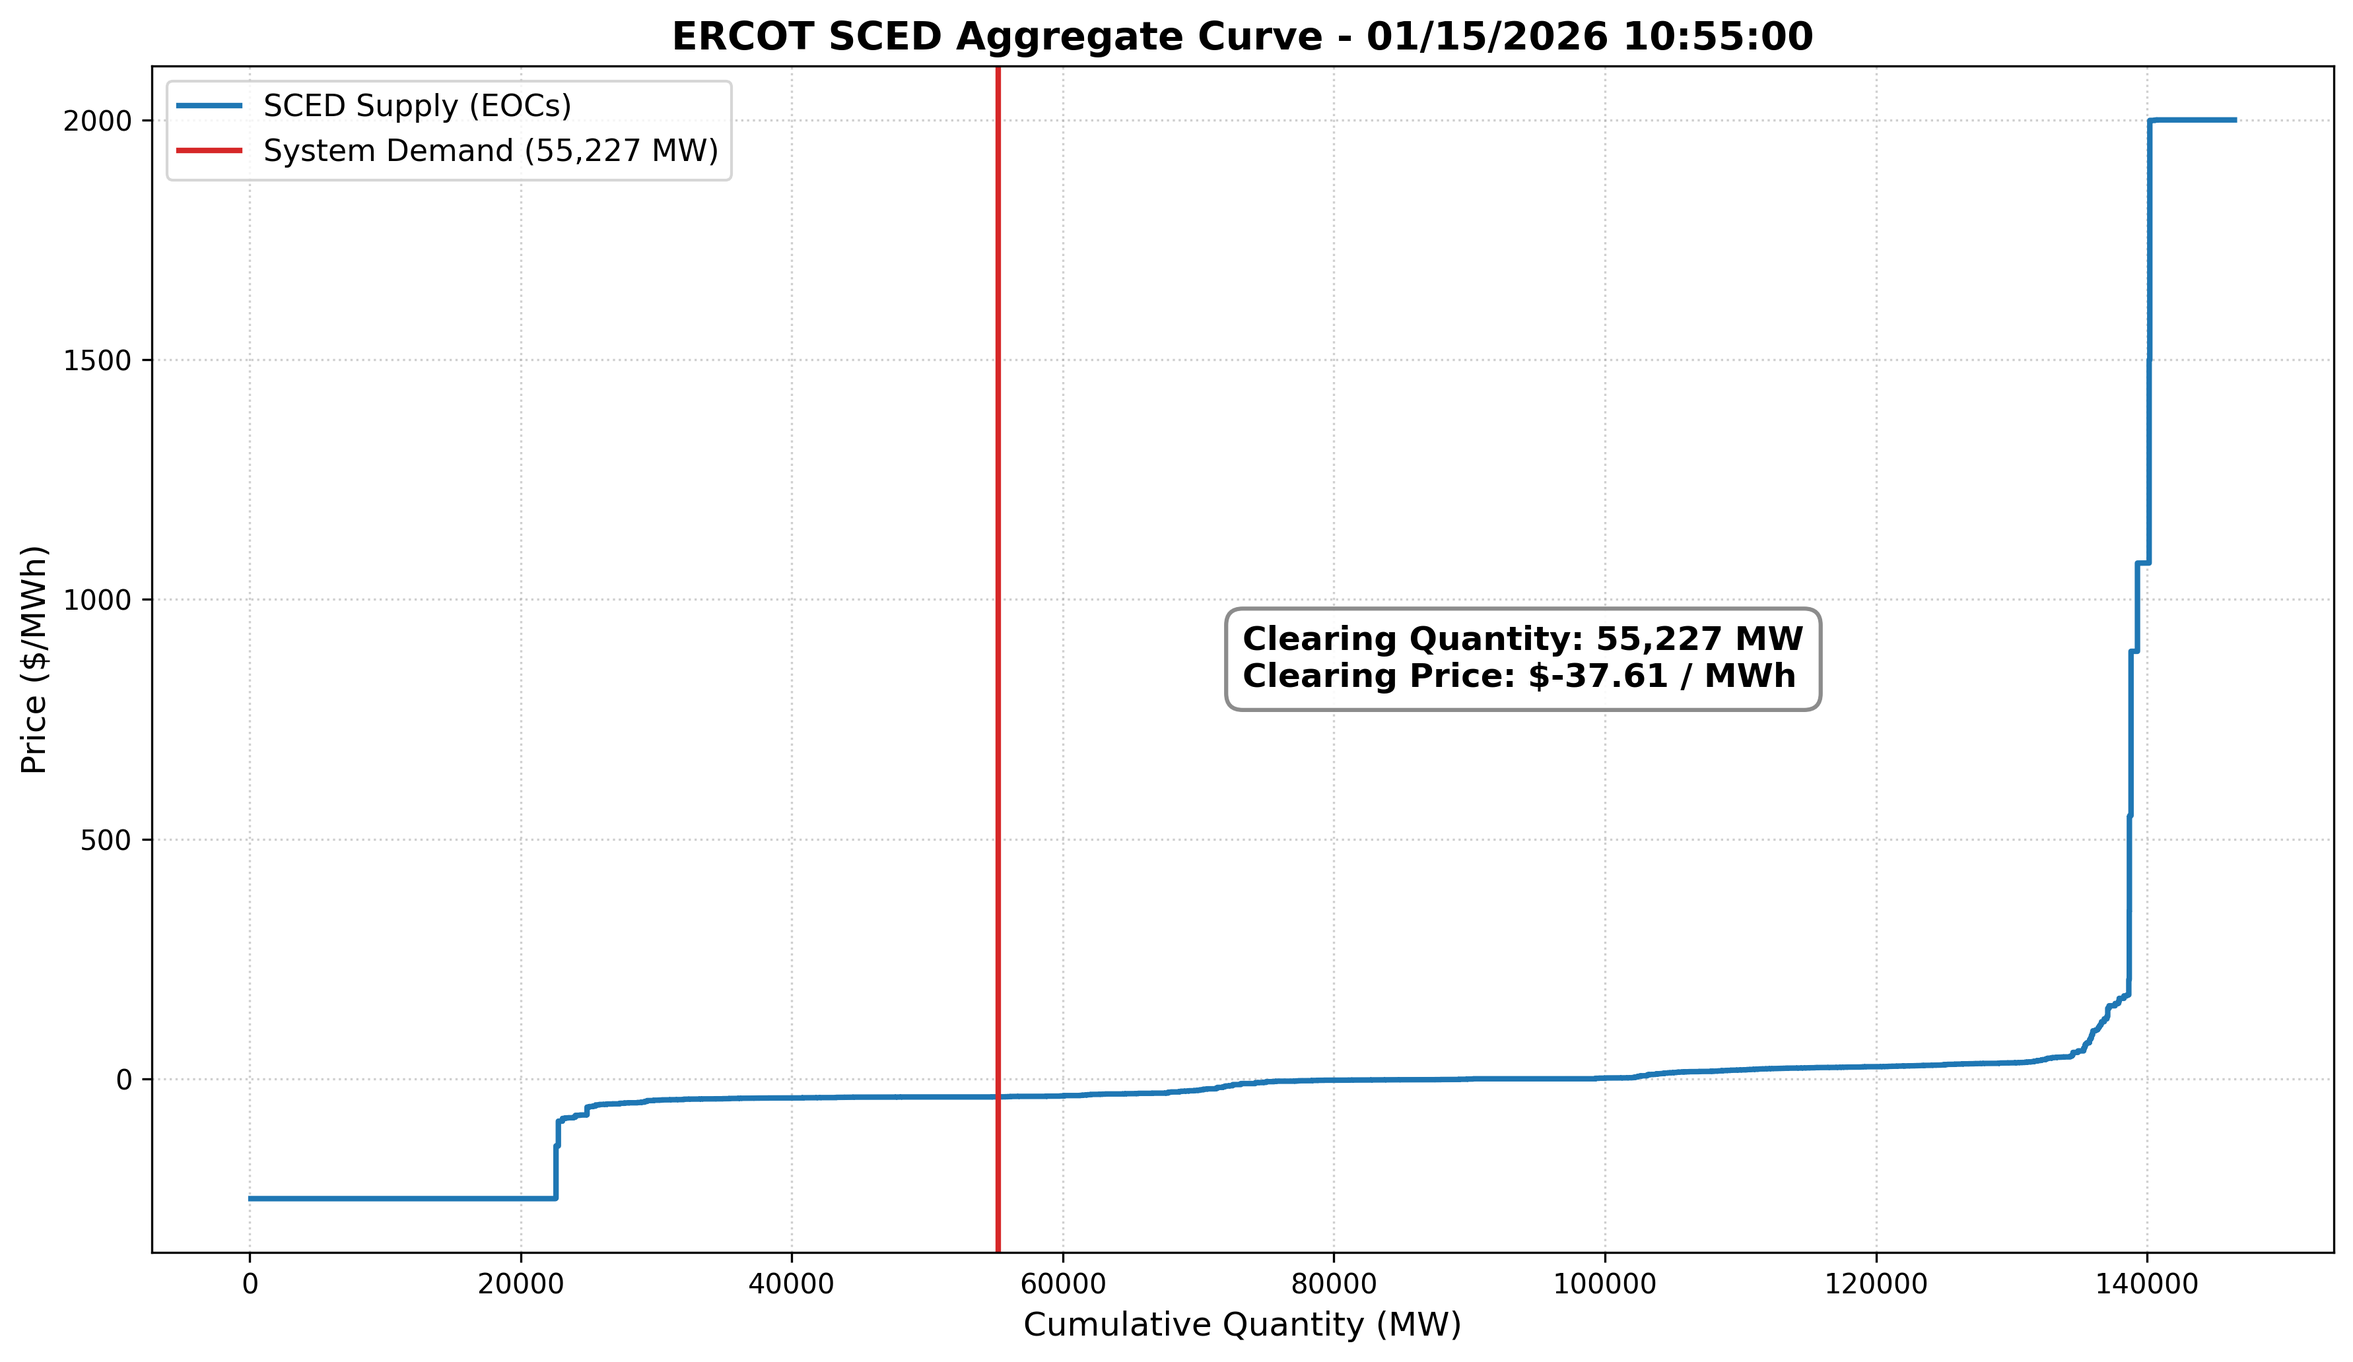
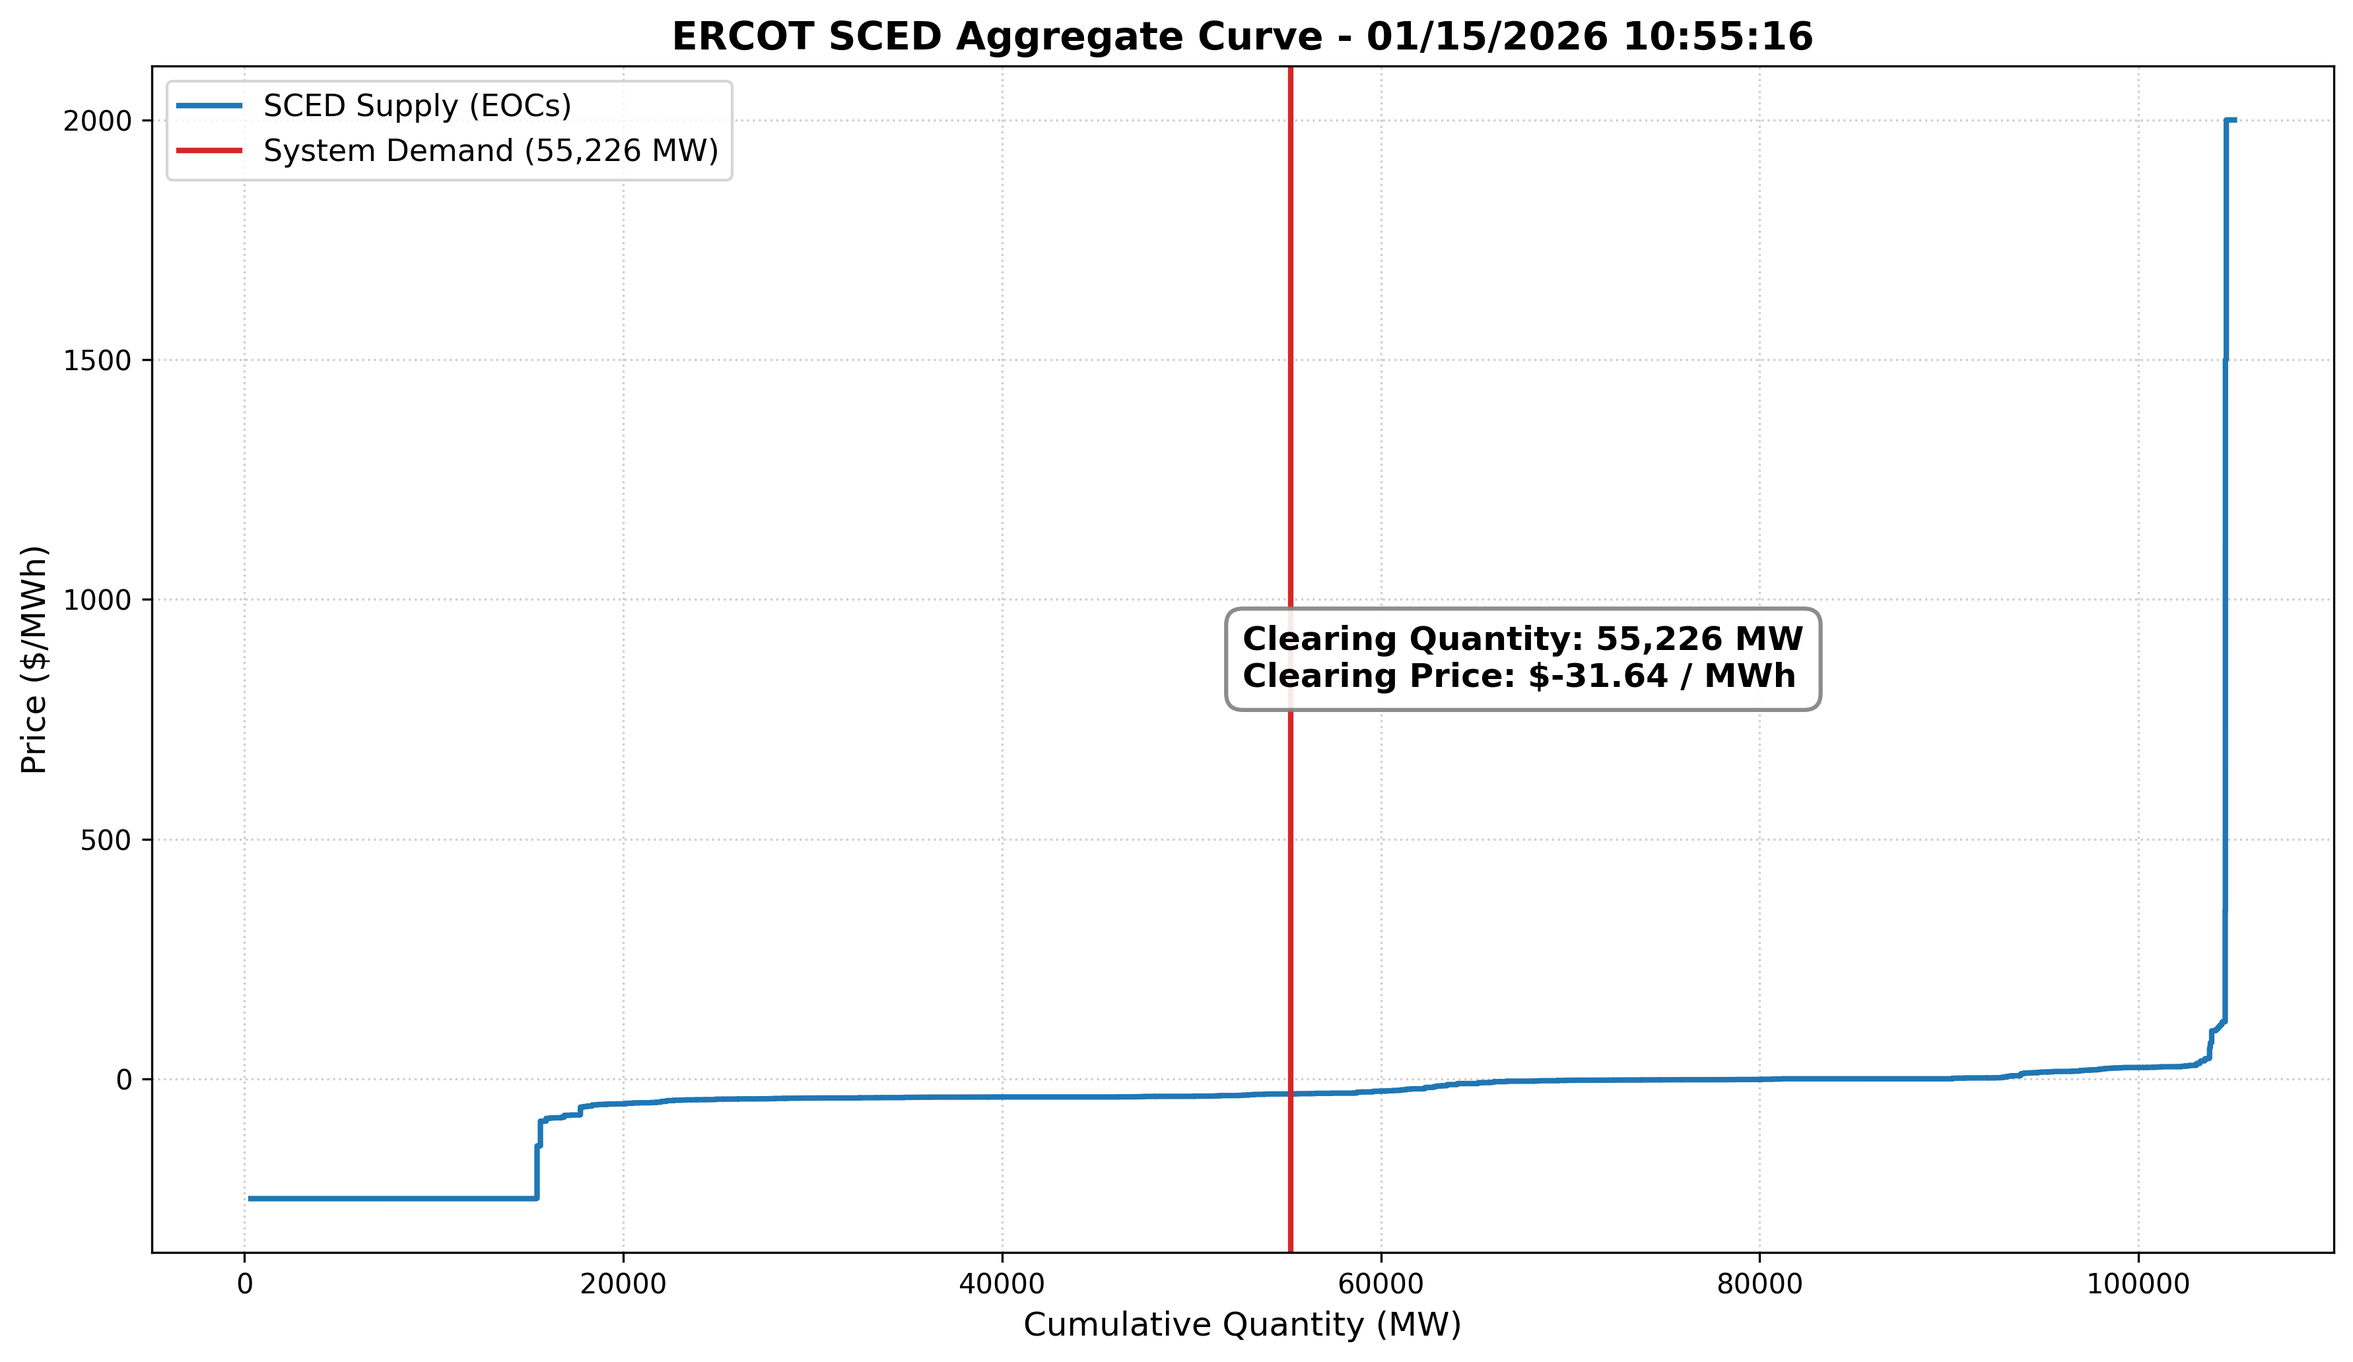
updated ercot and elearning graph files

diff --git a/src/ERCOT_AggDemand&Supply.py b/src/ERCOT_AggDemand&Supply.py
@@ -6,8 +6,8 @@ import re
 # 1. CONFIGURATION: Set your targets and files
 # ==========================================
 TARGET_DATE = '1/15/2026'  
-TARGET_HOUR = 20 
-TARGET_SCED_TIMESTAMP = '01/15/2026 19:55:00' 
+TARGET_HOUR = 21 
+TARGET_SCED_TIMESTAMP = '01/15/2026 20:55:00' 
 
 # DAM File Names
 FILE_DAM_BIDS = '/Users/dannysalingerbrown/Desktop/Energy-Graphs-Misc/data/March16DAM_60Day/60d_DAM_EnergyBids-16-MAR-26.csv'
@@ -21,18 +21,26 @@ FILE_SCED_GEN = '/Users/dannysalingerbrown/Desktop/Energy-Graphs-Misc/data/March
 # ==========================================
 # 2. HELPER FUNCTIONS
 # ==========================================
-def parse_ercot_curve(df, mw_keyword, price_keyword, is_cumulative=True):
+def parse_ercot_curve(df, mw_keyword, price_keyword, is_cumulative=True, limit_keyword=None):
     """Finds paired columns and mathematically converts cumulative ERCOT curves into incremental blocks."""
     mw_cols = [c for c in df.columns if mw_keyword.lower() in c.lower()]
     price_cols = [c for c in df.columns if price_keyword.lower() in c.lower()]
     
     def get_col_num(name):
-        match = re.search(r'\d+', name)
+        match = re.search(r'\d+', name.split('-')[-1])
         return int(match.group()) if match else 0
         
     mw_cols.sort(key=get_col_num)
     price_cols.sort(key=get_col_num)
     
+    limit_col = None
+    if limit_keyword:
+        limit_cols = [c for c in df.columns if limit_keyword.lower() in c.lower()]
+        if limit_cols:
+            limit_col = limit_cols[0]
+            # THE FIX: If ERCOT leaves HSL blank, it means the plant has 0 dispatchable limit!
+            df[limit_col] = pd.to_numeric(df[limit_col].astype(str).str.replace(',', ''), errors='coerce').fillna(0)
+
     parsed_data = []
     prev_mw_col = None
     
@@ -41,13 +49,19 @@ def parse_ercot_curve(df, mw_keyword, price_keyword, is_cumulative=True):
             temp_df = df[[price_col, mw_col]].copy()
             temp_df.columns = ['Price', 'Raw_MW']
             
-            # Clean and force numeric
             temp_df['Raw_MW'] = pd.to_numeric(temp_df['Raw_MW'].astype(str).str.replace(',', ''), errors='coerce').fillna(0)
             temp_df['Price'] = pd.to_numeric(temp_df['Price'].astype(str).str.replace(',', ''), errors='coerce')
             
-            # Use cumulative math 
+            if limit_col:
+                temp_df['Raw_MW'] = pd.concat([temp_df['Raw_MW'], df[limit_col]], axis=1).min(axis=1)
+            
             if is_cumulative and prev_mw_col is not None:
-                prev_mw = pd.to_numeric(df[prev_mw_col].astype(str).str.replace(',', ''), errors='coerce').fillna(0)
+                prev_mw_raw = pd.to_numeric(df[prev_mw_col].astype(str).str.replace(',', ''), errors='coerce').fillna(0)
+                if limit_col:
+                    prev_mw = pd.concat([prev_mw_raw, df[limit_col]], axis=1).min(axis=1)
+                else:
+                    prev_mw = prev_mw_raw
+                    
                 temp_df['MW'] = temp_df['Raw_MW'] - prev_mw
             else:
                 temp_df['MW'] = temp_df['Raw_MW']
@@ -64,7 +78,6 @@ def parse_ercot_curve(df, mw_keyword, price_keyword, is_cumulative=True):
     return pd.concat(parsed_data, ignore_index=True)
 
 def clean_and_filter(df, target_date, target_hour):
-    """Bulletproofs the Date and Hour columns before filtering."""
     df.columns = df.columns.str.strip()
     df['Delivery Date'] = pd.to_datetime(df['Delivery Date'])
     df['Hour Ending'] = pd.to_numeric(df['Hour Ending'], errors='coerce')
@@ -85,10 +98,23 @@ def plot_sced():
         print("   -> ERROR: Could not find a Timestamp column.")
         return
         
-    eoc_df = eoc_df[eoc_df[time_col].astype(str).str.startswith(target_minute_str)]
+    minute_df = eoc_df[eoc_df[time_col].astype(str).str.startswith(target_minute_str)].copy()
+    if minute_df.empty:
+        print("   -> ERROR: No data found for this minute.")
+        return
+        
+    exact_timestamp = minute_df[time_col].iloc[0]
+    print(f"   [Locked onto exact SCED run: {exact_timestamp}]")
+    eoc_df = minute_df[minute_df[time_col] == exact_timestamp].copy()
     
-    # Strictly only grab the QSE submitted curves, ignoring Mitigated curves
-    sced_supply = parse_ercot_curve(eoc_df, mw_keyword='SCED1 Curve-MW', price_keyword='SCED1 Curve-Price', is_cumulative=True)
+    # THE FIX: Hard filter to drop purely offline statuses BEFORE math happens
+    status_col = next((col for col in eoc_df.columns if 'Resource Status' in col), None)
+    if status_col:
+        # We drop OFF, OUT, and EMR (Emergency)
+        eoc_df = eoc_df[~eoc_df[status_col].astype(str).str.upper().str.contains(r'OFF|OUT|EMR')]
+        print(f"   [Filtered offline units. Remaining units to plot: {len(eoc_df)}]")
+
+    sced_supply = parse_ercot_curve(eoc_df, mw_keyword='SCED1 Curve-MW', price_keyword='SCED1 Curve-Price', is_cumulative=True, limit_keyword='Telemetered HSL')
     sced_supply = sced_supply.sort_values(by='Price', ascending=True)
     sced_supply['Cumulative_MW'] = sced_supply['MW'].cumsum()
     
@@ -112,20 +138,18 @@ def plot_sced():
     if total_system_demand > 0:
         plt.axvline(x=total_system_demand, color='#d62728', linewidth=2, label=f'System Demand ({total_system_demand:,.0f} MW)')
         
-    plt.title(f'ERCOT SCED Aggregate Curve - {TARGET_SCED_TIMESTAMP}', fontsize=14, fontweight='bold')
+    plt.title(f'ERCOT SCED Aggregate Curve - {exact_timestamp}', fontsize=14, fontweight='bold')
     plt.xlabel('Cumulative Quantity (MW)', fontsize=12)
     plt.ylabel('Price ($/MWh)', fontsize=12)
     plt.grid(True, linestyle=':', alpha=0.6)
     plt.legend(fontsize=11)
     
-    # --- CALCULATE EXACT SCED CLEARING & ADD TEXT BOX ---
     if total_system_demand > 0 and len(sced_supply) > 0:
         clearing_row = sced_supply[sced_supply['Cumulative_MW'] >= total_system_demand]
         if not clearing_row.empty:
             sced_price = clearing_row['Price'].iloc[0]
             print(f"   => ACTUAL SCED CLEARING: {total_system_demand:,.0f} MW at ${sced_price:,.2f} / MWh")
             
-            # Text box configuration
             sced_text = f"Clearing Quantity: {total_system_demand:,.0f} MW\nClearing Price: ${sced_price:,.2f} / MWh"
             bbox_props = dict(boxstyle="round,pad=0.5", fc="white", ec="gray", lw=1.5, alpha=0.9)
             plt.gca().text(0.50, 0.50, sced_text, transform=plt.gca().transAxes, fontsize=12,
@@ -166,13 +190,11 @@ def plot_dam():
         print("   -> ABORTING DAM PLOT: No data left to plot.")
         return
 
-    # 1. Initial Sort to calculate clearing
     dam_demand = dam_demand.sort_values(by='Price', ascending=False)
     dam_demand['Cumulative_MW'] = dam_demand['MW'].cumsum()
     dam_supply = dam_supply.sort_values(by='Price', ascending=True)
     dam_supply['Cumulative_MW'] = dam_supply['MW'].cumsum()
 
-    # 2. Calculate DAM intersection
     print("   [Calculating DAM intersection...]")
     all_prices = sorted(list(set(dam_supply['Price']).union(set(dam_demand['Price']))))
     dam_clearing_price = None
@@ -186,11 +208,9 @@ def plot_dam():
             dam_clearing_mw = d_mw 
             break
             
-    # 3. Plotting (With 0-Anchor Fix)
     plt.figure(figsize=(12, 7))
     
     if len(dam_supply) > 0:
-        # Prepend a 0 to the X axis, and duplicate the first price for the Y axis
         x_sup = [0] + dam_supply['Cumulative_MW'].tolist()
         y_sup = [dam_supply['Price'].iloc[0]] + dam_supply['Price'].tolist()
         plt.step(x_sup, y_sup, where='pre', label='Aggregate Supply (Offers)', color='#1f77b4', linewidth=2)
@@ -206,11 +226,9 @@ def plot_dam():
     plt.grid(True, linestyle=':', alpha=0.6)
     plt.legend(fontsize=11)
     
-    # --- ADD EXACT DAM CLEARING TEXT BOX ---
     if dam_clearing_price is not None:
         print(f"   => ACTUAL DAM CLEARING: {dam_clearing_mw:,.0f} MW at ${dam_clearing_price:,.2f} / MWh")
         
-        # Text box configuration
         dam_text = f"Clearing Quantity: {dam_clearing_mw:,.0f} MW\nClearing Price: ${dam_clearing_price:,.2f} / MWh"
         bbox_props = dict(boxstyle="round,pad=0.5", fc="white", ec="gray", lw=1.5, alpha=0.9)
         plt.gca().text(0.50, 0.50, dam_text, transform=plt.gca().transAxes, fontsize=12,
@@ -224,6 +242,5 @@ def plot_dam():
 # 5. EXECUTE
 # ==========================================
 if __name__ == "__main__":
-    # Execute SCED and DAM independently
     plot_sced()
     plot_dam()

diff --git a/src/SCED_troubleshooting.py b/src/SCED_troubleshooting.py
@@ -1,0 +1,98 @@
+import pandas as pd
+import re
+
+# ==========================================
+# 1. CONFIGURATION
+# ==========================================
+TARGET_SCED_TIMESTAMP = '01/15/2026 15:55:00'
+FILE_SCED = '/Users/dannysalingerbrown/Desktop/Energy-Graphs-Misc/data/March16SCED_60Day/60d_SCED_Gen_Resource_Data-16-MAR-26.csv'
+
+# ==========================================
+# 2. RUN DIAGNOSTIC
+# ==========================================
+def run_diagnostic():
+    print(f"\n--- RUNNING SCED DIAGNOSTIC FOR {TARGET_SCED_TIMESTAMP} ---")
+    
+    # Load the data
+    df = pd.read_csv(FILE_SCED)
+    df.columns = df.columns.str.strip()
+    
+    # Find the timestamp column
+    time_col = next((col for col in df.columns if 'SCED Time' in col or 'Timestamp' in col), None)
+    
+    if not time_col:
+        print("   -> ERROR: Could not find Timestamp column.")
+        return
+        
+    # --- EXACT SECONDS LOCK-ON FIX ---
+    target_minute_str = TARGET_SCED_TIMESTAMP[:16]
+    minute_df = df[df[time_col].astype(str).str.startswith(target_minute_str)].copy()
+    
+    if minute_df.empty:
+        print("   -> ERROR: No data found for this minute!")
+        return
+        
+    # Extract the EXACT timestamp (with seconds) of the first SCED run in that minute
+    exact_timestamp = minute_df[time_col].iloc[0]
+    print(f"   [Locked onto exact SCED run: {exact_timestamp}]")
+    
+    # Filter strictly by that exact string
+    df_filtered = minute_df[minute_df[time_col] == exact_timestamp].copy()
+    # ---------------------------------
+
+    # Grab the Resource Status
+    status_col = next((col for col in df_filtered.columns if 'Resource Status' in col), 'Resource Status')
+    
+    # Dynamically hunt down the first Price and MW columns
+    price_cols = [c for c in df_filtered.columns if 'sced1 curve-price' in c.lower()]
+    mw_cols = [c for c in df_filtered.columns if 'sced1 curve-mw' in c.lower()]
+    
+    if not price_cols or not mw_cols:
+        print("   -> ERROR: Could not find any Curve columns.")
+        return
+        
+    def get_col_num(name):
+        match = re.search(r'\d+', name.split('-')[-1])
+        return int(match.group()) if match else 0
+        
+    price_cols.sort(key=get_col_num)
+    mw_cols.sort(key=get_col_num)
+    
+    price_col = price_cols[0]
+    mw_col = mw_cols[0]
+    print(f"   [Found Target Columns: '{price_col}' and '{mw_col}']")
+
+    # Clean the price and MW columns
+    df_filtered['Price_1'] = pd.to_numeric(df_filtered[price_col].astype(str).str.replace(',', ''), errors='coerce')
+    df_filtered['MW_1'] = pd.to_numeric(df_filtered[mw_col].astype(str).str.replace(',', ''), errors='coerce')
+    
+    # Drop empty rows
+    df_valid = df_filtered.dropna(subset=['Price_1', 'MW_1'])
+
+    # Isolate the deeply negative offers (The Wind/Solar PTC bids)
+    negative_offers = df_valid[df_valid['Price_1'] <= -30].copy()
+    
+    print(f"Total Generators bidding at or below -$30/MWh: {len(negative_offers)}")
+    print(f"Total Raw Capacity offered in this negative block: {negative_offers['MW_1'].sum():,.0f} MW")
+    
+    print("\n--- BREAKDOWN BY PHYSICAL RESOURCE STATUS ---")
+    
+    # Group by the status to see who is actually turned on vs turned off
+    if status_col in df_valid.columns:
+        breakdown = negative_offers.groupby(status_col)['MW_1'].sum().reset_index()
+        breakdown = breakdown.sort_values(by='MW_1', ascending=False)
+        
+        for index, row in breakdown.iterrows():
+            print(f"Status: {row[status_col]:<10} | Offered: {row['MW_1']:,.0f} MW")
+    else:
+        print("No status column found to group by.")
+
+    print("\n---------------------------------------------------")
+    print("If the total generator count drops significantly, the duplication bug is verified!")
+    print("---------------------------------------------------\n")
+
+# ==========================================
+# 3. EXECUTE
+# ==========================================
+if __name__ == "__main__":
+    run_diagnostic()

diff --git a/src/allfuels_EIA_petrototal.py b/src/allfuels_EIA_petrototal.py
@@ -24,10 +24,9 @@ def categorize_fuel(desc):
         return 'Coal'
     elif 'Cost of Natur' in desc:
         return 'Gas'
-    elif 'Cost of Distil' in desc:
-        return 'Distillate'
-    elif 'Cost of Resid' in desc:
-        return 'Residual'
+    # MODIFIED: Look for the total petroleum string instead of distillate/residual
+    elif 'Costs of Total Petroleum' in desc: 
+        return 'Oil'
     return None
 
 df['Fuel'] = df['Description'].apply(categorize_fuel)
@@ -38,10 +37,9 @@ df = df.dropna(subset=['Fuel'])
 # Pivot the table to get dates as rows and fuels as columns
 df_pivot = df.pivot_table(index='Date', columns='Fuel', values='Value', aggfunc='mean').reset_index()
 
-# Calculate the average of Distillate and Residual for the combined Oil price
-df_pivot['Oil_MMBtu'] = df_pivot[['Distillate', 'Residual']].mean(axis=1)
-
 # Standardize column names for the plotting function
+# MODIFIED: Map directly to Oil rather than averaging two different columns
+df_pivot['Oil_MMBtu'] = df_pivot['Oil']
 df_pivot['Coal_MMBtu'] = df_pivot['Coal']
 df_pivot['Gas_MMBtu'] = df_pivot['Gas']
 
@@ -69,7 +67,7 @@ def plot_fuels(ax):
     # We use a standard horizontal offset for Oil and Coal
     label_date = first_date - pd.DateOffset(months=4)
     
-    # NEW: A smaller horizontal offset to shift Natural Gas slightly to the right
+    # A smaller horizontal offset to shift Natural Gas slightly to the right
     label_date_gas = first_date - pd.DateOffset(months=1)
     
     # OIL: Sits slightly above its line
@@ -109,7 +107,8 @@ def plot_fuels(ax):
 plt.figure(figsize=(16, 8)) 
 plot_fuels(plt.gca())
 plt.tight_layout()
-plt.savefig('/Users/dannysalingerbrown/Desktop/Energy-Graphs-Misc/eia_fuels_with_spines.png', dpi=300, transparent=True)
+# Note: You might want to update the savefig filenames so they don't overwrite your previous graphs!
+plt.savefig('/Users/dannysalingerbrown/Desktop/Energy-Graphs-Misc/eia_fuels_total_oil_with_spines.png', dpi=300, transparent=True)
 plt.show()
 
 # --- GRAPH 2: CLEAN WITHOUT BOX (Y-Spine Kept) ---
@@ -122,5 +121,6 @@ for side in ['top', 'right', 'bottom']:
     ax2.spines[side].set_visible(False)
 
 plt.tight_layout()
-plt.savefig('/Users/dannysalingerbrown/Desktop/Energy-Graphs-Misc/eia_fuels_no_spines.png', dpi=300, transparent=True)
+# Note: You might want to update the savefig filenames so they don't overwrite your previous graphs!
+plt.savefig('/Users/dannysalingerbrown/Desktop/Energy-Graphs-Misc/eia_fuels_total_oil_no_spines.png', dpi=300, transparent=True)
 plt.show()
